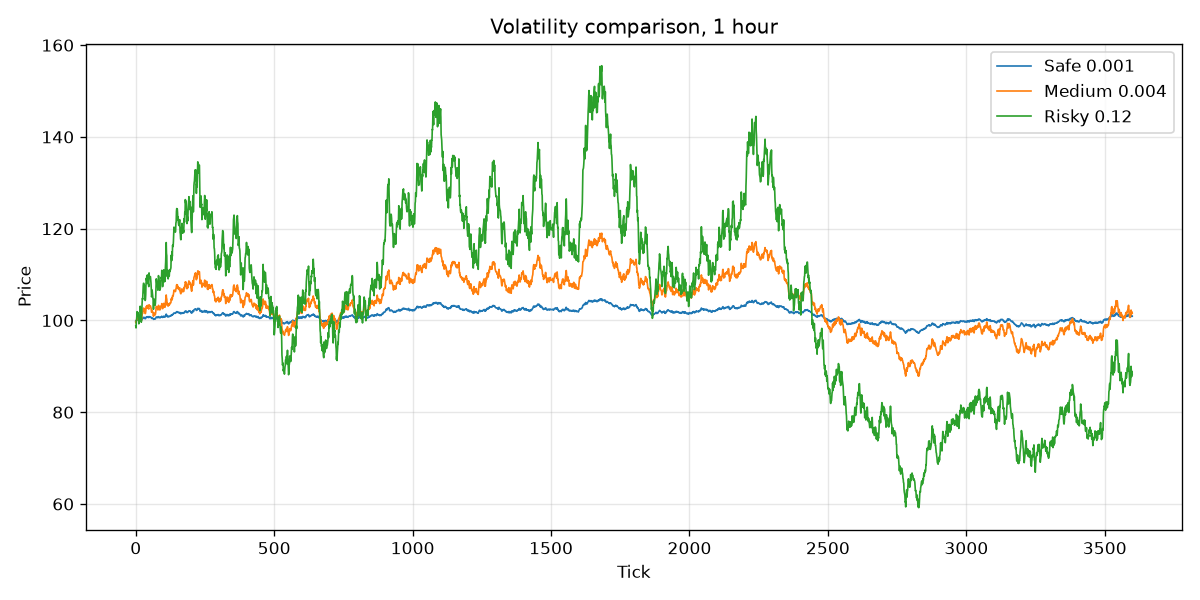
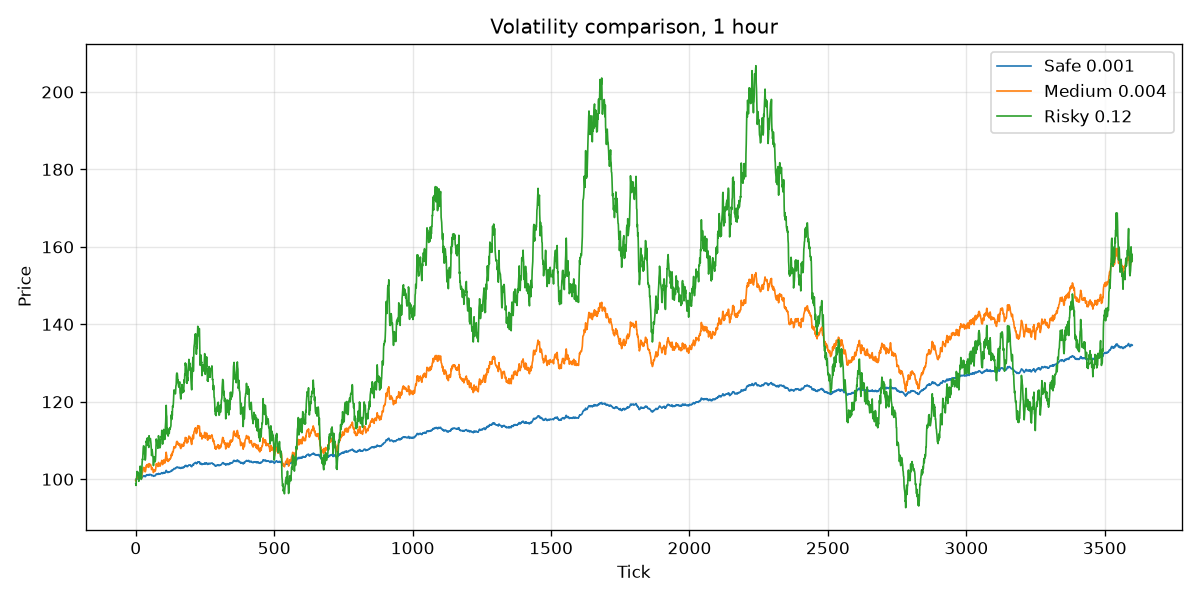
drift added

diff --git a/server/stock.py b/server/stock.py
@@ -2,16 +2,18 @@ import numpy as np
 
 #control each individual stock
 class Stock:
-    def __init__(self, id, start_price, name, volatility, seed):
+    def __init__(self, id, start_price, name, volatility, drift, seed):
         self.id = id
         self.price = start_price
         self.name = name
         self.volatility = volatility
+        self.drift = drift
         self.rng = np.random.default_rng(seed)
         self.alive = True
 
     def tick(self):
-        self.price *= np.exp((self.volatility * self.rng.standard_normal()) - 0.5 * self.volatility**2)
+        log_change = self.drift - 0.5 * self.volatility**2 + self.volatility * self.rng.standard_normal()
+        self.price *= np.exp(log_change)
         return self.price
     
     def get_state(self):
@@ -20,6 +22,7 @@ class Stock:
             "id": self.id,
             "name": self.name,
             "volatility": self.volatility,
+            "drift": self.drift,
             "price": float(self.price),
             "alive": self.alive,
             "rng": self.rng.bit_generator.state
@@ -31,13 +34,14 @@ class Stock:
         self.id = state["id"]
         self.name = state["name"]
         self.volatility = state["volatility"]
+        self.drift = state["drift"]
         self.price = state["price"]
         self.alive = state["alive"]
         self.rng.bit_generator.state = state["rng"]
     
     @classmethod
     def from_state(cls, state):
-        stock = cls(state["id"], state["price"], state["name"], state["volatility"], seed=0)
+        stock = cls(state["id"], state["price"], state["name"], state["volatility"], state["drift"], seed=0)
         stock.set_state(state)
         return stock
     

diff --git a/tools/sim_harness.py b/tools/sim_harness.py
@@ -47,7 +47,7 @@ def first_difference(a, b):
     return None
 
 def test_save_restore(n=500, m=500):
-    stock = Stock(1, 100.0, "ABC", 0.005, 123)
+    stock = Stock(1, 100.0, "ABC", 0.005, 0.00006, 123)
     run_ticks(stock, n)
 
     # Round trip through real JSON text
@@ -68,7 +68,7 @@ def test_save_restore(n=500, m=500):
     print("save/restore (alive stock): passed")
 
 def test_save_restore_dead():
-    stock = Stock(2, 50.0, "XYZ", 0.01, 456)
+    stock = Stock(2, 50.0, "XYZ", 0.01, 0.00008, 456)
     run_ticks(stock, 100)
     stock.alive = False
     stock.price = 0.0
@@ -82,12 +82,12 @@ def test_save_restore_dead():
     assert restored.price == stock.price, "price was not restored"
     print("save/restore (dead stock): passed")
 
-def demo_volatility_plot():
+def demo_plot():
     runs, labels = [], []
-    for label, vol in [("Safe 0.001", 0.001),
-                                   ("Medium 0.004", 0.004),
-                                   ("Risky 0.12", 0.012)]:
-        stock = Stock(1, 100.0, "TST", vol, 123)
+    for label, drift,vol in [("Safe 0.001",0.00008,0.001),
+                                   ("Medium 0.004",0.00012,0.004),
+                                   ("Risky 0.12",0.00016,0.012)]:
+        stock = Stock(1, 100.0, "TST", vol, drift, 123)
         runs.append(run_ticks(stock, 3600))
         labels.append(label)
     plot_prices(runs, labels, title="Volatility comparison, 1 hour",
@@ -96,4 +96,4 @@ def demo_volatility_plot():
 if __name__ == "__main__":
     test_save_restore()
     test_save_restore_dead()
-    demo_volatility_plot()
+    demo_plot()
